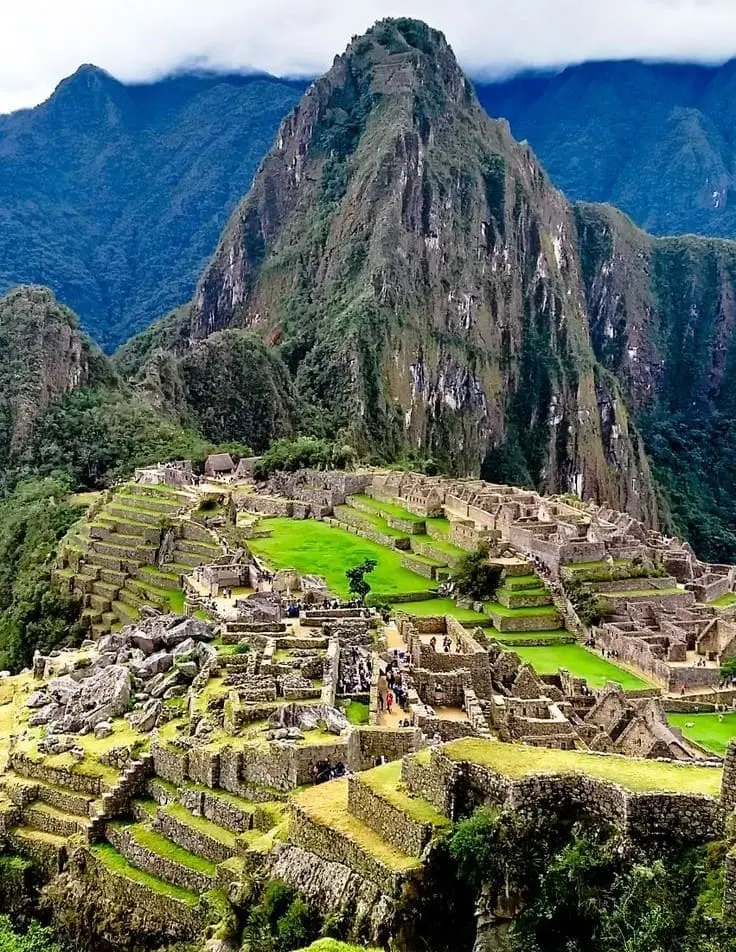
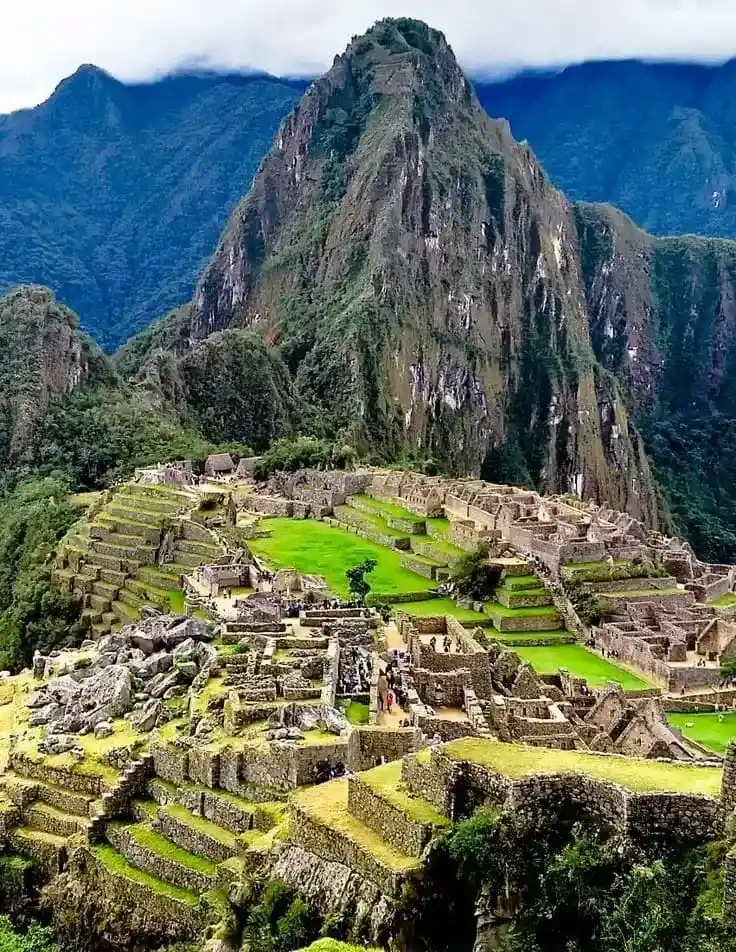
resized images

diff --git a/place.html b/place.html
@@ -18,7 +18,7 @@
     </header>
     <main>
         <picture>
-            <source srcset="images/lima_peru.webp" media="(min-width: 1000px)">
+            <source srcset="images/lima_peru.webp" media="(min-width: 1000px)" alt="Barranco, Lima, Peru">
             <img src="images/machu_picchu.webp" alt="Machu Picchu, Cuzco, Peru">
         </picture>
         <section>
